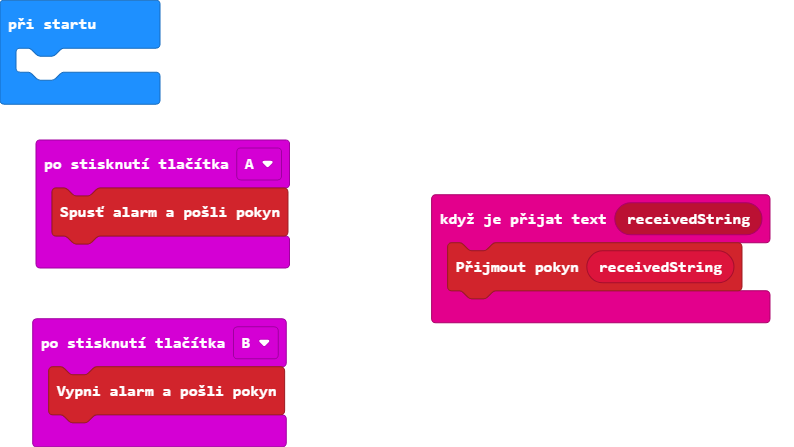
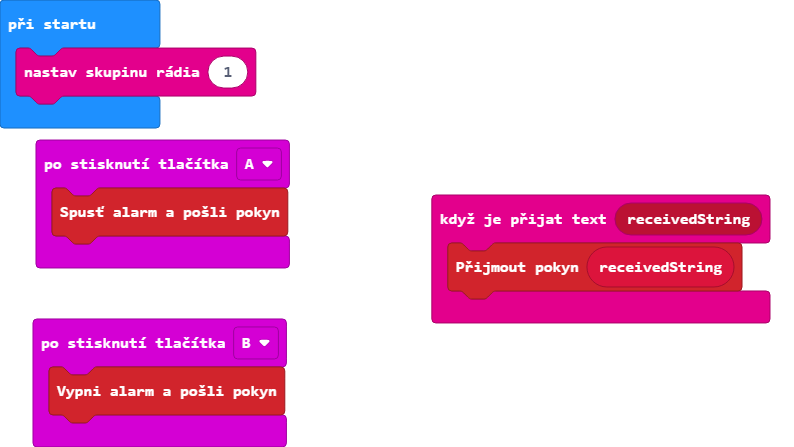
Aktualizovat pxt.json, main.blocks, main.ts

diff --git a/main.ts b/main.ts
@@ -7,3 +7,4 @@ radio.onReceivedString(function (receivedString) {
 input.onButtonPressed(Button.B, function () {
     alarm.turnOffAlarmAndBroadcast()
 })
+radio.setGroup(1)
